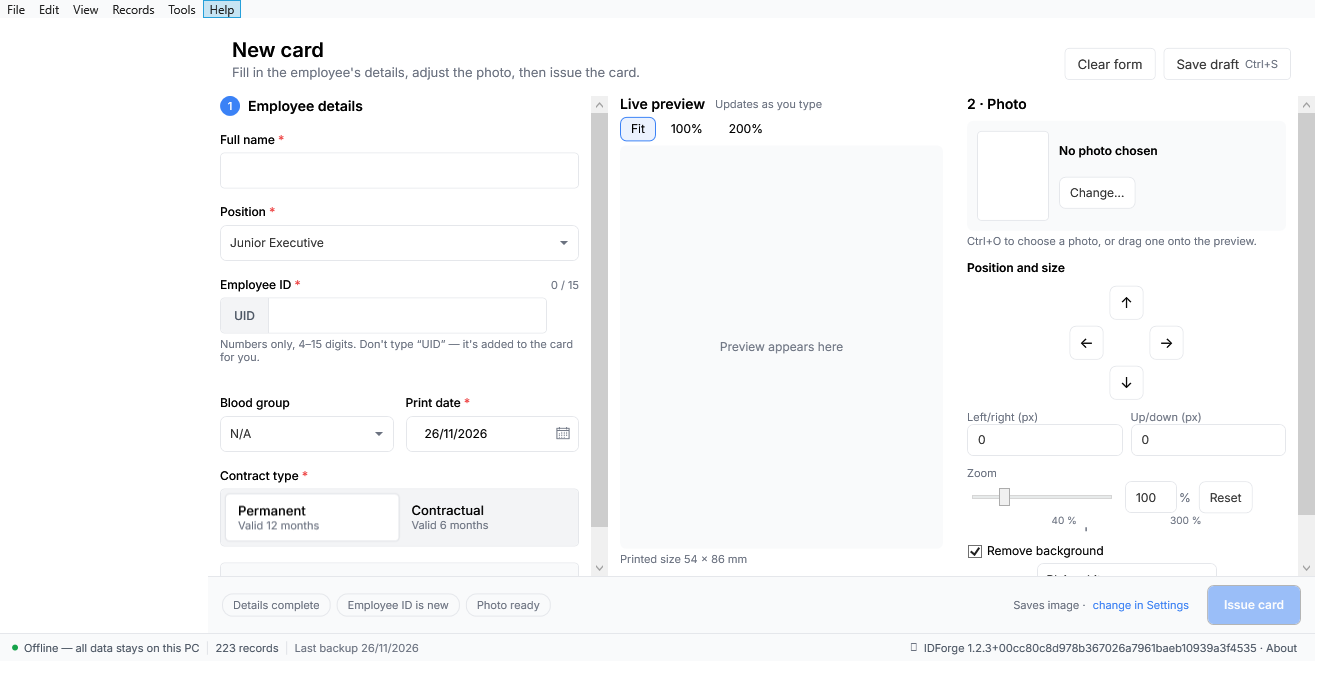
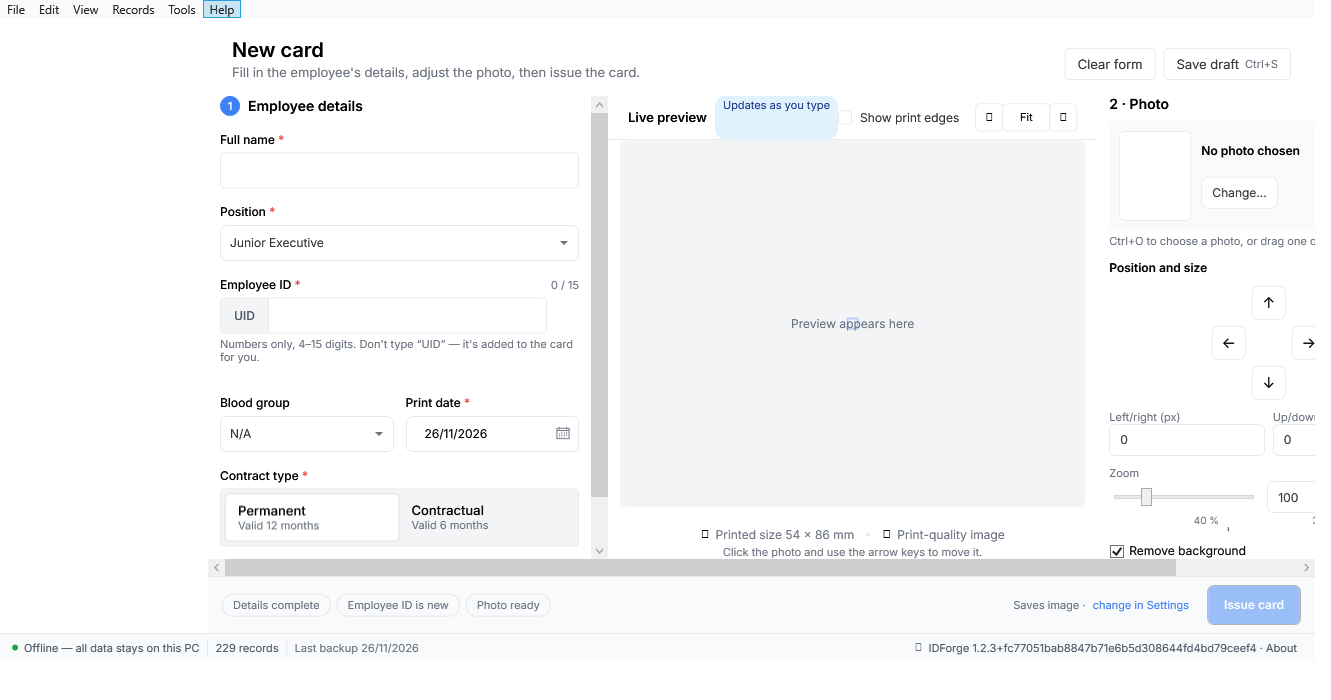
Visual parity C: live preview header, card chrome, footer texts
- Preview header is now a 44 px bordered bar: "Live preview" +
  "Updates as you type" accent chip on the left; "Show print edges"
  DesignCheckBox and the −/Fit/+ zoom group on the right.
- Zoom model replaced Fit/100%/200% radios with stepped zoom: Fit
  resets to fit; −/+ (and Ctrl+wheel) step 25 % on top of the fit
  scale, clamped 25–400 %.
- Card presentation: centred in the pane on PanelBrush, 2 px
  PrimaryBrush ring at 30 % opacity offset 4 px off the edge, and a
  DropShadowEffect (blur 24, depth 6, opacity .25).
- "Show print edges" draws a dashed trim-line rectangle over the
  preview only; the render path is untouched so saved PNG/PDF bytes
  are identical.
- Footer texts: ruler + "Printed size 54 × 86 mm" + image icon +
  TxtPrintFormat ("Print-quality image", "+ PDF" only when PDF saving
  is on) + the arrow-key hint line.
- Ring/edge overlays hide when no card is rendered.
- 212/212 tests pass.

Generated with [Devin](https://devin.ai)

diff --git a/src/IDForge/MainWindow.xaml b/src/IDForge/MainWindow.xaml
@@ -462,6 +462,83 @@
                             </Setter>
                         </Style>
 
+                        <!-- §5.4 preview zoom group button -->
+                        <Style x:Key="ZoomGroupButton" TargetType="Button">
+                            <Setter Property="Width" Value="28"/>
+                            <Setter Property="Height" Value="28"/>
+                            <Setter Property="FontSize" Value="11"/>
+                            <Setter Property="Background" Value="{StaticResource BackgroundBrush}"/>
+                            <Setter Property="BorderBrush" Value="{StaticResource BorderBrush}"/>
+                            <Setter Property="BorderThickness" Value="1"/>
+                            <Setter Property="Cursor" Value="Hand"/>
+                            <Setter Property="Template">
+                                <Setter.Value>
+                                    <ControlTemplate TargetType="Button">
+                                        <Border x:Name="Bd" CornerRadius="4" BorderThickness="1"
+                                                Background="{TemplateBinding Background}"
+                                                BorderBrush="{TemplateBinding BorderBrush}"
+                                                Padding="{TemplateBinding Padding}">
+                                            <ContentPresenter HorizontalAlignment="Center"
+                                                              VerticalAlignment="Center"/>
+                                        </Border>
+                                        <ControlTemplate.Triggers>
+                                            <Trigger Property="IsMouseOver" Value="True">
+                                                <Setter TargetName="Bd" Property="Background"
+                                                        Value="{StaticResource SecondaryBrush}"/>
+                                            </Trigger>
+                                            <Trigger Property="IsEnabled" Value="False">
+                                                <Setter Property="Opacity" Value="0.5"/>
+                                            </Trigger>
+                                        </ControlTemplate.Triggers>
+                                    </ControlTemplate>
+                                </Setter.Value>
+                            </Setter>
+                        </Style>
+
+                        <!-- §5.4/5.5 design checkbox: 14 px box, FA check when on -->
+                        <Style x:Key="DesignCheckBox" TargetType="CheckBox">
+                            <Setter Property="FontSize" Value="12"/>
+                            <Setter Property="Foreground" Value="{StaticResource TextBrush}"/>
+                            <Setter Property="VerticalContentAlignment" Value="Center"/>
+                            <Setter Property="Cursor" Value="Hand"/>
+                            <Setter Property="Template">
+                                <Setter.Value>
+                                    <ControlTemplate TargetType="CheckBox">
+                                        <StackPanel Orientation="Horizontal">
+                                            <Border x:Name="Box" Width="14" Height="14"
+                                                    CornerRadius="3" VerticalAlignment="Center"
+                                                    Background="{StaticResource BackgroundBrush}"
+                                                    BorderBrush="{StaticResource BorderBrush}"
+                                                    BorderThickness="1">
+                                                <TextBlock x:Name="Chk" Text="&#xF00C;"
+                                                           FontFamily="{StaticResource IconFont}"
+                                                           FontSize="9" Foreground="White"
+                                                           HorizontalAlignment="Center"
+                                                           VerticalAlignment="Center"
+                                                           Visibility="Collapsed"/>
+                                            </Border>
+                                            <ContentPresenter Margin="8,0,0,0"
+                                                              VerticalAlignment="Center"/>
+                                        </StackPanel>
+                                        <ControlTemplate.Triggers>
+                                            <Trigger Property="IsChecked" Value="True">
+                                                <Setter TargetName="Box" Property="Background"
+                                                        Value="{StaticResource PrimaryBrush}"/>
+                                                <Setter TargetName="Box" Property="BorderBrush"
+                                                        Value="{StaticResource PrimaryBrush}"/>
+                                                <Setter TargetName="Chk" Property="Visibility"
+                                                        Value="Visible"/>
+                                            </Trigger>
+                                            <Trigger Property="IsMouseOver" Value="True">
+                                                <Setter TargetName="Box" Property="BorderBrush"
+                                                        Value="{StaticResource PrimaryBrush}"/>
+                                            </Trigger>
+                                        </ControlTemplate.Triggers>
+                                    </ControlTemplate>
+                                </Setter.Value>
+                            </Setter>
+                        </Style>
+
                         <!-- §5.3 contract segmented control option -->
                         <Style x:Key="SegOption" TargetType="RadioButton">
                             <Setter Property="Height" Value="48"/>
@@ -718,39 +795,49 @@
                                 </StackPanel>
                             </ScrollViewer>
 
-                            <!-- ===== LIVE PREVIEW ===== -->
+                            <!-- ===== LIVE PREVIEW (§5.4) ===== -->
                             <Grid Grid.Column="1">
                                 <Grid.RowDefinitions>
                                     <RowDefinition Height="Auto"/>
                                     <RowDefinition Height="*"/>
                                     <RowDefinition Height="Auto"/>
                                 </Grid.RowDefinitions>
-                                <Grid Grid.Row="0" Margin="12,0,12,4">
-                                    <Grid.RowDefinitions>
-                                        <RowDefinition Height="Auto"/>
-                                        <RowDefinition Height="Auto"/>
-                                    </Grid.RowDefinitions>
-                                    <StackPanel Grid.Row="0" Orientation="Horizontal"
-                                                VerticalAlignment="Center">
-                                        <TextBlock Text="Live preview" FontSize="14" FontWeight="SemiBold"/>
-                                        <TextBlock Text="Updates as you type" FontSize="11"
-                                                   Foreground="{StaticResource MutedBrush}"
-                                                   VerticalAlignment="Center" Margin="10,0,0,0"/>
-                                    </StackPanel>
-                                    <StackPanel Grid.Row="1" Orientation="Horizontal" Margin="0,4,0,0">
-                                        <RadioButton x:Name="RadZoomFit" Content="Fit" GroupName="pzoom"
-                                                     Style="{StaticResource ZoomButton}" IsChecked="True"
-                                                     Checked="ZoomMode_Changed"/>
-                                        <RadioButton x:Name="RadZoom100" Content="100%" GroupName="pzoom"
-                                                     Style="{StaticResource ZoomButton}"
-                                                     Checked="ZoomMode_Changed" Margin="4,0,0,0"/>
-                                        <RadioButton x:Name="RadZoom200" Content="200%" GroupName="pzoom"
-                                                     Style="{StaticResource ZoomButton}"
-                                                     Checked="ZoomMode_Changed" Margin="4,0,0,0"/>
-                                    </StackPanel>
-                                </Grid>
+                                <Border Grid.Row="0" Height="44" Padding="20,0"
+                                        Background="{StaticResource BackgroundBrush}"
+                                        BorderBrush="{StaticResource BorderBrush}"
+                                        BorderThickness="0,0,0,1">
+                                    <DockPanel>
+                                        <StackPanel DockPanel.Dock="Left" Orientation="Horizontal">
+                                            <TextBlock Text="Live preview" FontSize="13"
+                                                       FontWeight="SemiBold" VerticalAlignment="Center"/>
+                                            <Border Margin="8,0,0,0" Padding="8,2" CornerRadius="10"
+                                                    Background="{StaticResource AccentBrush}">
+                                                <TextBlock Text="Updates as you type" FontSize="11"
+                                                           Foreground="{StaticResource AccentTextBrush}"/>
+                                            </Border>
+                                        </StackPanel>
+                                        <StackPanel DockPanel.Dock="Right" Orientation="Horizontal"
+                                                    HorizontalAlignment="Right" VerticalAlignment="Center">
+                                            <CheckBox x:Name="ChkPrintEdges" Content="Show print edges"
+                                                      Style="{StaticResource DesignCheckBox}"
+                                                      Margin="0,0,16,0"
+                                                      Checked="PrintEdges_Changed"
+                                                      Unchecked="PrintEdges_Changed"/>
+                                            <Button x:Name="BtnZoomOut" Style="{StaticResource ZoomGroupButton}"
+                                                    Content="&#xF068;" FontFamily="{StaticResource IconFont}"
+                                                    ToolTip="Zoom out" Click="PreviewZoomOut_Click"/>
+                                            <Button x:Name="BtnZoomFit" Style="{StaticResource ZoomGroupButton}"
+                                                    Content="Fit" Width="48" Margin="-1,0,0,0"
+                                                    ToolTip="Fit card to pane" Click="PreviewZoomFit_Click"/>
+                                            <Button x:Name="BtnZoomIn" Style="{StaticResource ZoomGroupButton}"
+                                                    Content="&#xF067;" FontFamily="{StaticResource IconFont}"
+                                                    ToolTip="Zoom in" Margin="-1,0,0,0"
+                                                    Click="PreviewZoomIn_Click"/>
+                                        </StackPanel>
+                                    </DockPanel>
+                                </Border>
                                 <Border x:Name="PreviewArea" Grid.Row="1" Margin="12,0,12,4"
-                                        CornerRadius="6" Background="{StaticResource PanelLightBrush}"
+                                        CornerRadius="6" Background="{StaticResource PanelBrush}"
                                         Focusable="True" AllowDrop="True"
                                         Drop="Preview_Drop" DragOver="Preview_DragOver"
                                         PreviewKeyDown="Preview_KeyDown"
@@ -760,7 +847,31 @@
                                         <ScrollViewer x:Name="PreviewScroll"
                                                       HorizontalScrollBarVisibility="Auto"
                                                       VerticalScrollBarVisibility="Auto">
-                                            <Image x:Name="ImgPreview" Stretch="Uniform"/>
+                                            <Grid MinWidth="{Binding ViewportWidth, ElementName=PreviewScroll}"
+                                                  MinHeight="{Binding ViewportHeight, ElementName=PreviewScroll}">
+                                                <Grid HorizontalAlignment="Center"
+                                                      VerticalAlignment="Center">
+                                                    <Image x:Name="ImgPreview" Stretch="Uniform">
+                                                        <Image.Effect>
+                                                            <DropShadowEffect BlurRadius="24"
+                                                                              ShadowDepth="6"
+                                                                              Opacity="0.25"/>
+                                                        </Image.Effect>
+                                                    </Image>
+                                                    <!-- 2 px ring, 30 % opacity, 4 px off the card edge -->
+                                                    <Rectangle x:Name="RctCardRing" Margin="-6"
+                                                               Stroke="{StaticResource PrimaryBrush}"
+                                                               StrokeThickness="2" Opacity="0.3"
+                                                               IsHitTestVisible="False"/>
+                                                    <!-- dashed trim line; preview only, never saved -->
+                                                    <Rectangle x:Name="RctPrintEdges" Margin="1"
+                                                               Stroke="{StaticResource MutedBrush}"
+                                                               StrokeThickness="1"
+                                                               StrokeDashArray="4,3"
+                                                               Visibility="Collapsed"
+                                                               IsHitTestVisible="False"/>
+                                                </Grid>
+                                            </Grid>
                                         </ScrollViewer>
                                         <TextBlock x:Name="TxtPreviewHint" Text="Preview appears here"
                                                    HorizontalAlignment="Center" VerticalAlignment="Center"
@@ -768,10 +879,29 @@
                                                    IsHitTestVisible="False"/>
                                     </Grid>
                                 </Border>
-                                <TextBlock Grid.Row="2" Margin="12,0,12,10" FontSize="11"
-                                           Foreground="{StaticResource MutedBrush}">
-                                    <Run Text="Printed size 54 × 86 mm"/>
-                                </TextBlock>
+                                <StackPanel Grid.Row="2" HorizontalAlignment="Center" Margin="0,16,0,0">
+                                    <StackPanel Orientation="Horizontal" HorizontalAlignment="Center">
+                                        <TextBlock Text="&#xF545;" FontFamily="{StaticResource IconFont}"
+                                                   FontSize="12" Margin="0,0,6,0"
+                                                   VerticalAlignment="Center"/>
+                                        <TextBlock Text="Printed size 54 × 86 mm" FontSize="12"
+                                                   Foreground="{StaticResource MutedBrush}"
+                                                   VerticalAlignment="Center"/>
+                                        <Ellipse Width="4" Height="4"
+                                                 Fill="{StaticResource BorderBrush}"
+                                                 Margin="12,0" VerticalAlignment="Center"/>
+                                        <TextBlock Text="&#xF03E;" FontFamily="{StaticResource IconFont}"
+                                                   FontSize="12" Margin="0,0,6,0"
+                                                   VerticalAlignment="Center"/>
+                                        <TextBlock x:Name="TxtPrintFormat" FontSize="12"
+                                                   Text="Print-quality image"
+                                                   Foreground="{StaticResource MutedBrush}"
+                                                   VerticalAlignment="Center"/>
+                                    </StackPanel>
+                                    <TextBlock Text="Click the photo and use the arrow keys to move it."
+                                               FontSize="11" Foreground="{StaticResource MutedBrush}"
+                                               HorizontalAlignment="Center" Margin="0,4,0,0"/>
+                                </StackPanel>
                             </Grid>
 
                             <!-- ===== 2 · PHOTO ===== -->

diff --git a/src/IDForge/MainWindow.xaml.cs b/src/IDForge/MainWindow.xaml.cs
@@ -32,7 +32,8 @@ public partial class MainWindow : Window
     
     private Employee? _editingEmployee;
     private bool _restoringDraft;
-    private int _previewZoomMode; // 0=Fit, 1=100%, 2=200%
+    private bool _previewZoomFit = true;   // Fit resets; −/+ step a factor on top of fit
+    private double _previewZoom = 1.0;
     private readonly DispatcherTimer _draftTimer = new() { Interval = TimeSpan.FromMilliseconds(800) };
 
     // Records state
@@ -426,6 +427,7 @@ public partial class MainWindow : Window
         {
             ImgPreview.Source = null;
             TxtPreviewHint.Visibility = Visibility.Visible;
+            UpdateCardChrome();
             return;
         }
 
@@ -462,7 +464,17 @@ public partial class MainWindow : Window
         if (req != _previewRequest || pixels == null) return; // stale render
         ImgPreview.Source = ToWriteableBitmap(pixels, pw, ph);
         TxtPreviewHint.Visibility = Visibility.Collapsed;
+        UpdateCardChrome();
         ApplyPreviewZoom();
+    }
+
+    /// <summary>Card ring + print-edge overlay only exist when a card is shown.</summary>
+    private void UpdateCardChrome()
+    {
+        var has = ImgPreview.Source != null;
+        RctCardRing.Visibility = has ? Visibility.Visible : Visibility.Collapsed;
+        RctPrintEdges.Visibility = has && ChkPrintEdges.IsChecked == true
+            ? Visibility.Visible : Visibility.Collapsed;
     }
 
     // ---------------- photo ----------------
@@ -783,6 +795,8 @@ public partial class MainWindow : Window
     {
         TxtOutputPdf.Visibility = AppSettings.IncludePdf ? Visibility.Visible : Visibility.Collapsed;
         BtnOutputSettings.Visibility = AppSettings.IncludePdf ? Visibility.Collapsed : Visibility.Visible;
+        TxtPrintFormat.Text = AppSettings.IncludePdf
+            ? "Print-quality image + PDF" : "Print-quality image";
     }
 
     // ---------------- New Card: draft ----------------
@@ -897,40 +911,47 @@ public partial class MainWindow : Window
 
     // ---------------- New Card: preview zoom, arrows, drag-drop ----------------
 
-    private void ZoomMode_Changed(object sender, RoutedEventArgs e)
+    /// <summary>Preview zoom (§5.4): Fit fits the card to the pane; −/+ step
+    /// the zoom in 25 % increments on top of the fit scale.</summary>
+    private void PreviewZoomFit_Click(object sender, RoutedEventArgs e)
     {
-        _previewZoomMode = RadZoomFit.IsChecked == true ? 0 : RadZoom100.IsChecked == true ? 1 : 2;
+        _previewZoomFit = true;
+        _previewZoom = 1.0;
         ApplyPreviewZoom();
     }
+
+    private void PreviewZoomOut_Click(object sender, RoutedEventArgs e) => StepPreviewZoom(-0.25);
+    private void PreviewZoomIn_Click(object sender, RoutedEventArgs e) => StepPreviewZoom(0.25);
+
+    private void StepPreviewZoom(double delta)
+    {
+        if (_previewZoomFit) { _previewZoomFit = false; _previewZoom = 1.0; }
+        _previewZoom = Math.Clamp(_previewZoom + delta, 0.25, 4.0);
+        ApplyPreviewZoom();
+    }
+
+    /// <summary>"Show print edges" is preview-only — the saved PNG/PDF never change.</summary>
+    private void PrintEdges_Changed(object sender, RoutedEventArgs e) => UpdateCardChrome();
 
     private void ApplyPreviewZoom()
     {
         if (ImgPreview?.Source == null) return;   // ImgPreview still null during InitializeComponent
-        switch (_previewZoomMode)
-        {
-            case 1: ImgPreview.Width = Config.CardWidth; ImgPreview.Height = Config.CardHeight; break;
-            case 2: ImgPreview.Width = Config.CardWidth * 2; ImgPreview.Height = Config.CardHeight * 2; break;
-            default:
-                var w = PreviewArea.ActualWidth - 24;
-                var h = PreviewArea.ActualHeight - 24;
-                if (w <= 0 || h <= 0) { ImgPreview.Width = double.NaN; ImgPreview.Height = double.NaN; return; }
-                var s = Math.Min(w / Config.CardWidth, h / Config.CardHeight);
-                ImgPreview.Width = Config.CardWidth * s;
-                ImgPreview.Height = Config.CardHeight * s;
-                break;
-        }
+        var w = PreviewArea.ActualWidth - 24;
+        var h = PreviewArea.ActualHeight - 24;
+        if (w <= 0 || h <= 0) { ImgPreview.Width = double.NaN; ImgPreview.Height = double.NaN; return; }
+        var s = Math.Min(w / Config.CardWidth, h / Config.CardHeight)
+                * (_previewZoomFit ? 1.0 : _previewZoom);
+        ImgPreview.Width = Config.CardWidth * s;
+        ImgPreview.Height = Config.CardHeight * s;
     }
 
     private void PreviewArea_SizeChanged(object sender, SizeChangedEventArgs e) => ApplyPreviewZoom();
 
-    /// <summary>Ctrl+wheel cycles Fit → 100% → 200% → Fit.</summary>
+    /// <summary>Ctrl+wheel steps the preview zoom, same as the −/+ buttons.</summary>
     private void Preview_MouseWheel(object sender, MouseWheelEventArgs e)
     {
         if (Keyboard.Modifiers != ModifierKeys.Control) return;
-        _previewZoomMode = (_previewZoomMode + (e.Delta > 0 ? 1 : 2)) % 3;
-        RadZoomFit.IsChecked = _previewZoomMode == 0;
-        RadZoom100.IsChecked = _previewZoomMode == 1;
-        RadZoom200.IsChecked = _previewZoomMode == 2;
+        StepPreviewZoom(e.Delta > 0 ? 0.25 : -0.25);
         e.Handled = true;
     }
 

diff --git a/tests/IDForge.Tests/FixPassTests.cs b/tests/IDForge.Tests/FixPassTests.cs
@@ -337,10 +337,11 @@ public class FixPassTests
             {
                 var title = FindTextBlocks(main).First(t => t.Text == "Live preview");
                 var subtitle = FindTextBlocks(main).First(t => t.Text == "Updates as you type");
-                var fit = (RadioButton)main.FindName("RadZoomFit")!;
+                var fit = (Button)main.FindName("BtnZoomFit")!;
 
-                // Subtitle shares the title's row; zoom chips are on a different row.
-                Assert.Equal(title.Parent, subtitle.Parent);
+                // Parity §5.4: title and chip share the header's left group;
+                // the zoom group sits in the header's right group.
+                Assert.Equal(title.Parent, (subtitle.Parent as FrameworkElement)?.Parent);
                 Assert.NotEqual(title.Parent, fit.Parent);
 
                 // Parity plan §5.1: draft note sits in the header button group.
